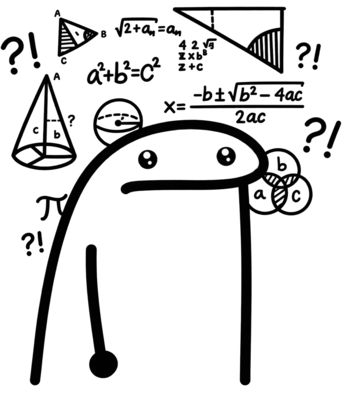
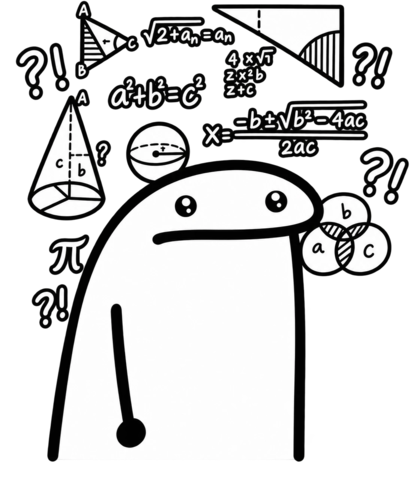
Mis gastos: nueva versión de la imagen, más grande y apoyada sobre el borde
Claude-Session: https://claude.ai/code/session_011rLCuKXZXUYy9mxiqYsKzK

Changed region(s): [[0.0, 0.0, 1.0, 0.9595]]

diff --git a/src/features/expenses/Expenses.tsx b/src/features/expenses/Expenses.tsx
@@ -232,7 +232,7 @@ export function Expenses() {
     });
     setMonthNotice(`“${current.concept}” se guardó en ${target.name}.`);
   };
-  return <section><div className="section-title"><div className="title-with-floppy"><div><p className="eyebrow">Control cotidiano</p><h1>Mis gastos</h1></div><Link className="floppy floppy--small" to="/gastos/meses" aria-label="Meses guardados" title="Meses guardados"><span className="floppy-shutter" aria-hidden="true" /><span>Meses</span></Link></div><div className="calc-art" aria-hidden="true"><img src={memeMatematica} alt="" width={342} height={420} draggable={false} /></div><SectionObjects large><DeskLink /><NotebookLink /></SectionObjects><div className="total"><small>Total</small><strong>{sumError ? '—' : money(sum)}</strong>{sumError && <small role="alert">{sumError}</small>}</div></div><div className="expenses-layout"><div className="calculator"><form onSubmit={add}>
+  return <section><div className="section-title"><div className="title-with-floppy"><div><p className="eyebrow">Control cotidiano</p><h1>Mis gastos</h1></div><Link className="floppy floppy--small" to="/gastos/meses" aria-label="Meses guardados" title="Meses guardados"><span className="floppy-shutter" aria-hidden="true" /><span>Meses</span></Link></div><div className="calc-art" aria-hidden="true"><img src={memeMatematica} alt="" width={415} height={480} draggable={false} /></div><SectionObjects large><DeskLink /><NotebookLink /></SectionObjects><div className="total"><small>Total</small><strong>{sumError ? '—' : money(sum)}</strong>{sumError && <small role="alert">{sumError}</small>}</div></div><div className="expenses-layout"><div className="calculator"><form onSubmit={add}>
     <label>Gasto<input value={concept} onChange={e => setConcept(e.target.value)} placeholder="Ej. Electricidad" /></label>
     <label>Categoría<select aria-label="Categoría del gasto" value={category} onChange={e => setCategory(e.target.value as ExpenseCategory)}>
       {EXPENSE_CATEGORIES.map(c => <option key={c} value={c}>{c}</option>)}

diff --git a/src/styles/main.css b/src/styles/main.css
@@ -322,13 +322,13 @@ main{max-width:2200px;padding:clamp(1rem,2.5vw,2.5rem)}
 .expenses-layout>.calculator{margin:0}
 /* Libreta de "Mi diario": un poco más ancha y con letra más chica, así la palabra entra entera con cualquier fuente. */
 .section-objects .notebook{width:135px}.section-objects .notebook span:not(.notebook-binding){font-size:1.3rem}
-/* Mis gastos: íconos grandes donde termina el rectángulo de gastos e imagen en el medio, apoyada sobre él. */
+/* Mis gastos: íconos grandes donde termina el rectángulo de gastos e imagen en el medio, con la línea del cuerpo apoyada sobre su borde (3px adentro). */
 .calc-art{display:none}
 @media(min-width:801px){
 .section-title:has(>.calc-art){display:grid;grid-template-columns:auto minmax(0,1fr) auto auto;column-gap:1rem;align-items:end}
 .section-title:has(>.calc-art)>.section-objects{justify-self:end;align-self:end}
 .calc-art{display:block;position:relative;align-self:stretch;container-type:inline-size;min-height:8rem}
-.calc-art img{position:absolute;left:0;right:0;top:0;bottom:-1.6rem;width:100%;height:calc(100% + 1.6rem);object-fit:contain;object-position:center bottom;pointer-events:none;user-select:none}
+.calc-art img{position:absolute;z-index:2;left:-.5rem;right:-.5rem;top:-1.5rem;width:calc(100% + 1rem);height:calc(100% + 3.1rem + 3px);object-fit:contain;object-position:center bottom;pointer-events:none;user-select:none}
 @container (max-width:6rem){.calc-art img{display:none}}
 }
 @media(min-width:1460px){.section-title:has(>.calc-art){grid-template-columns:auto minmax(0,1fr) auto minmax(280px,20rem)}}
